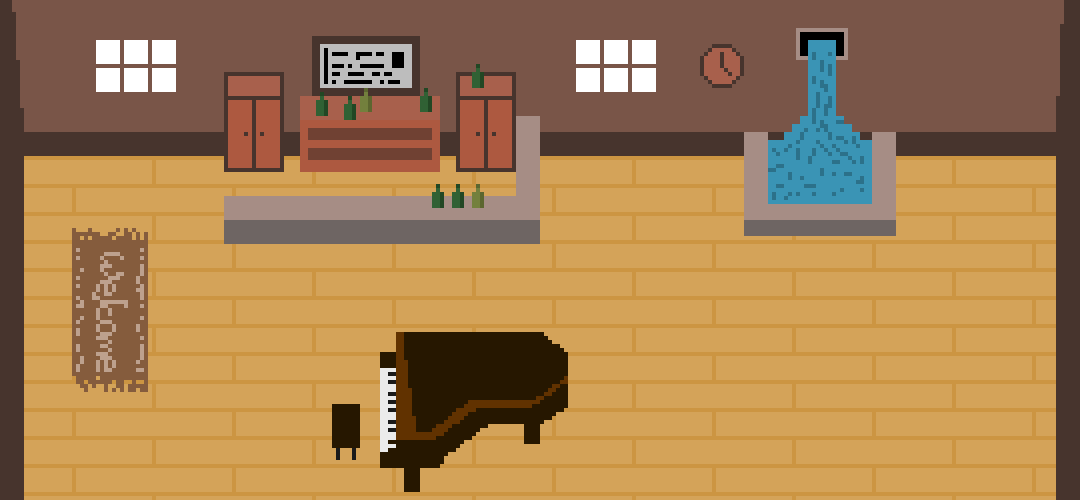
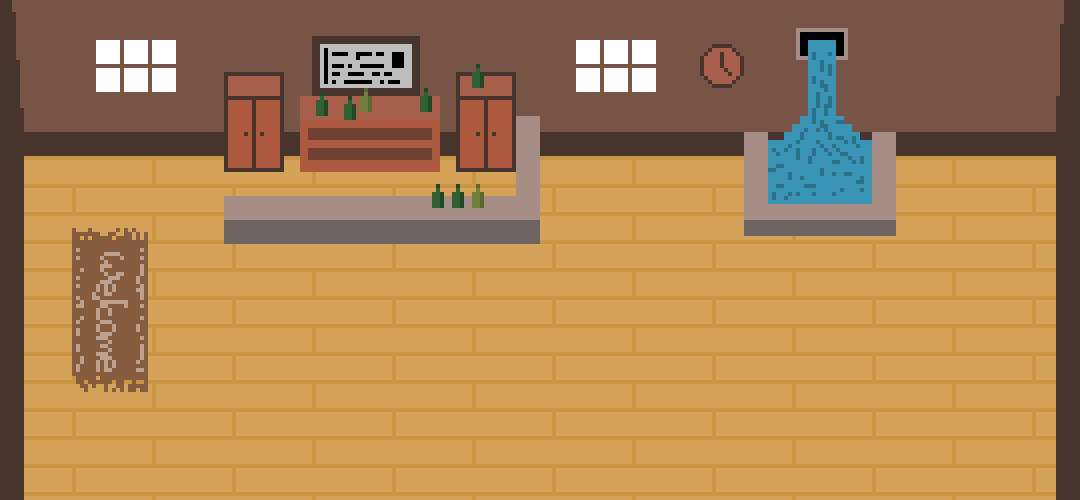
Add Guide Text and Interactable
Added:
- Guide now has text with autofitting and read from a designated txt!
- Piano is now interactable in innlobby and available as a global interactable

Changed region(s): [[0.3056, 0.66, 0.55, 0.99]]

diff --git a/environment.py b/environment.py
@@ -179,6 +179,11 @@ class Guide(helpers.DataSprite):
         """
         super(Guide, self).__init__('guide', 'misc/')
         self.state = 'close'
+        self.font = pygame.font.Font('Media/fonts/iAWriterDuospace-Bold.otf', 30)
+        with open('Media/misc/guide/guide.txt') as f:
+            lines = f.readlines()
+        self.lines = [line.strip() for line in lines]
+        self.current_index = 0
 
     def update(self, screen, player):
         """
@@ -189,6 +194,8 @@ class Guide(helpers.DataSprite):
             self.toggle()
         self.surf = self.animator.get_next(self.state)
         screen.blit(self.surf, self.rect)
+        if self.state == 'open':
+            self.display_text(screen)
 
     def notification(self):
         """
@@ -204,3 +211,37 @@ class Guide(helpers.DataSprite):
             self.state = 'open'
         else:
             self.state = 'close'
+
+    def update_text(self):
+        self.current_index += 1
+
+    def display_text(self, screen):
+        """
+
+        Args:
+            screen:
+
+        Returns:
+
+        """
+        # Split the speech into lines that can fit in the chatbox
+        processed = []
+        numlines = 32  # make this even
+        for i in range(min(self.current_index * 2, len(self.lines)-1), -1, -1):
+            next_step = textwrap.fill(self.lines[i], 19).split('\n')
+            if(len(processed) + len(next_step) > numlines):
+                break
+            processed = next_step + processed
+        # If the phrase length is greater than zero, display the chatbox with
+        # the phrase in it
+        for i in range(0, min(numlines//2, len(processed))):
+            # Display the text. If it's long, show only the last four lines.
+            # This creates a scrolling effect
+            screen.blit(self.font.render(processed[i], True, (0, 0, 0)),
+                        (150, 100 + (i * 30)))
+        for j in range(numlines//2, min(numlines, len(processed))):
+            screen.blit(self.font.render(processed[j], True, (0, 0, 0)),
+                        (570, 100  + ((j - numlines//2) * 30)))
+
+
+

diff --git a/game.py b/game.py
@@ -25,14 +25,14 @@ class Game:
 
         self.clock = pygame.time.Clock()
 
-        self.room = environment.Room('maze')
+        self.room = environment.Room('innlobby')
         self.background = environment.Background('nightsky')
         self.guide = environment.Guide()
 
         self.player = character.Player('turtle2')
         self.npc = character.NPC('turtle')
 
-        self.lever = interactables.Interactable('dial')
+        self.lever = interactables.Interactable('piano')
 
     def intro(self):
         #pygame.mixer.music.load('Media/music/Theme_Fast.mp3')
@@ -52,7 +52,7 @@ class Game:
             pygame.display.flip()
             self.clock.tick(6)
         pygame.event.clear()
-        while credit == True:
+        while credit is True:
             for event in pygame.event.get():
                 if event.type == KEYDOWN:
                     credit = False
@@ -77,7 +77,7 @@ class Game:
         running = True
         self.npc.move(500, 500)
         self.player.spawn(self.room)
-        self.lever.place(400, 400)
+        self.lever.place(350, 550)
 
         while running:
             # Look at every event in the queue
